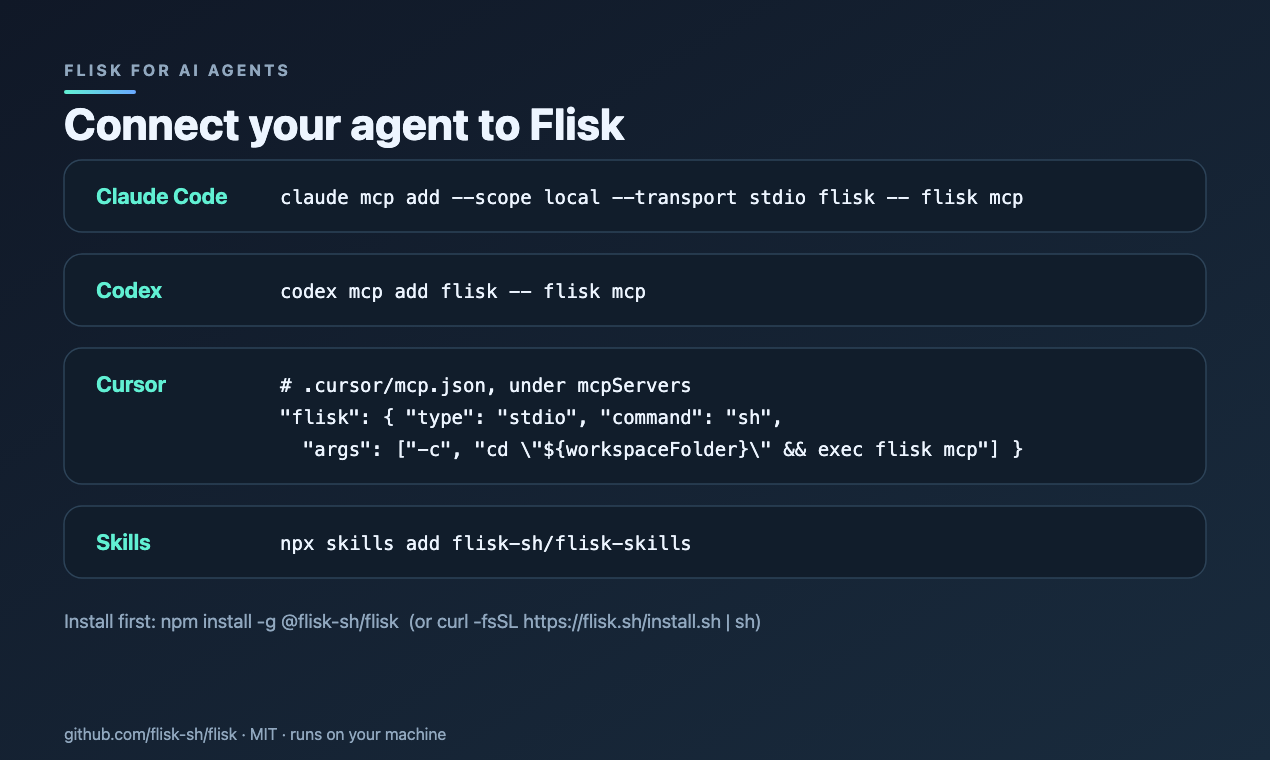
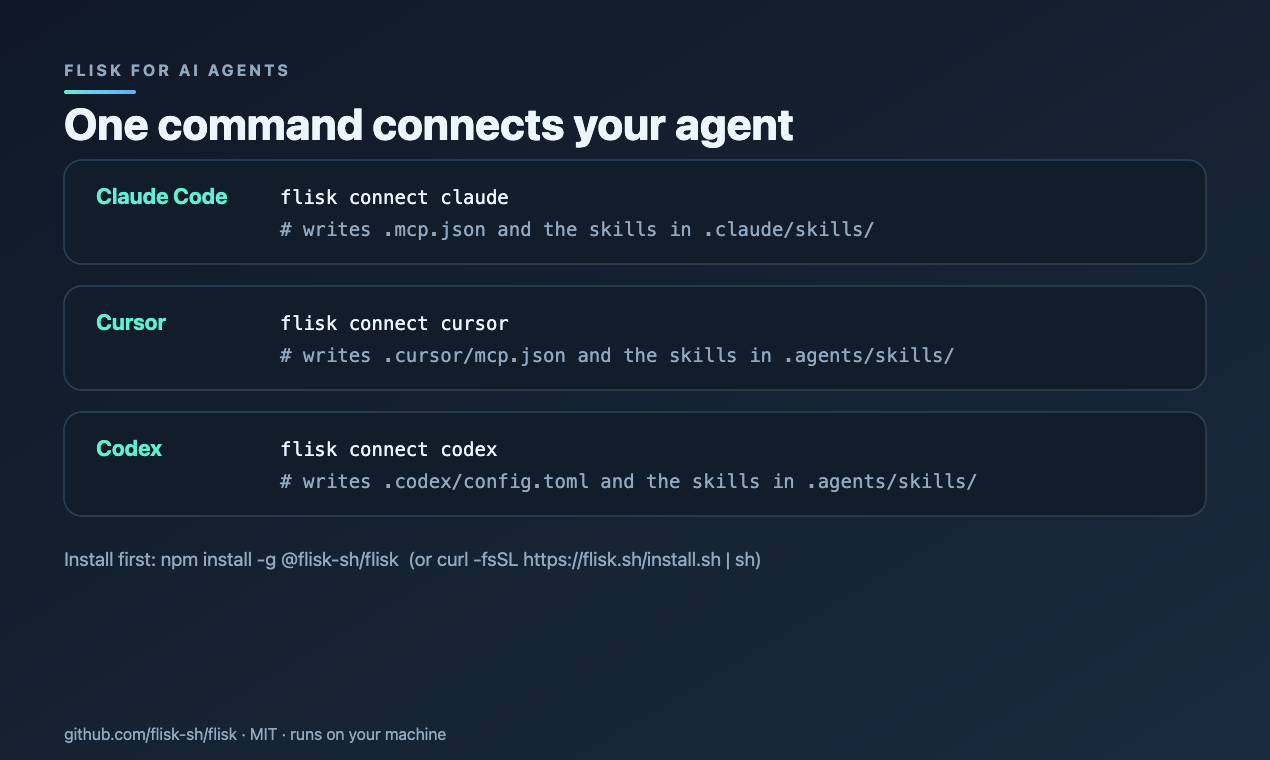
docs(launch): use flisk connect in the agents launch kit (#2634)
flisk connect <claude|cursor|codex> shipped in 1.4.9, so gallery card 2
now shows it with the files each host gets, in place of the per-host
commands and the skills install. The kit's two open items are marked
shipped (the connect command, flisk.sh/agents), the first comment gets
the one-command line, and the posts point at flisk.sh/agents.

The tool facts follow flisk 1.4.10: 21 tools (was 19) on cards 1 and 3
and in the copy, card 3 lists the current names (resource_restart,
agent_list, agent_sessions) and the missing project_import and
project_eject, and the video script uses resource_restart.

diff --git a/docs/launch/flisk-for-agents/README.md b/docs/launch/flisk-for-agents/README.md
@@ -6,22 +6,23 @@ Everything the maker needs to post "Flisk for AI agents" on Product Hunt and to 
 - [checklist.md](checklist.md): the next 24 hours, in Pacific time.
 - [gallery/](gallery/): the five gallery images (SVG source and PNG), and the script that writes them.
 
-Before anything goes out, check two open items:
+The two items that were open have shipped:
 
-1. **The connect command.** The one-command connect is being built on the `feat/flisk-for-agents` branch and is not on `main` yet. The working name is flisk connect followed by the host (claude, cursor or codex). This kit uses the commands that work today (the per-host setup in [Set up the Flisk MCP server](../../agent-tooling/flisk-mcp-setup.md)). When the connect command merges, put its real name and flags into the first comment, the posts below and gallery card 2 (`CONNECT` in [gallery/build.mjs](gallery/build.mjs)), and run it once on a clean machine first.
-2. **The landing page.** flisk.sh/agents is being built. Until it answers, use the repository link (https://github.com/flisk-sh/flisk) as the product link.
+1. **The connect command.** `flisk connect claude`, `flisk connect cursor` and `flisk connect codex` are in the published CLI since 1.4.9 ([Flisk for AI agents](../../agents/flisk-for-agents.md)). This kit, the first comment and gallery card 2 use them. Run one once on a clean machine before the launch.
+2. **The landing page.** https://flisk.sh/agents/ answers. Use it as the product link, with the repository as the second link.
 
 ## What the product is (one paragraph, for anyone writing about it)
 
-Flisk for AI agents gives a coding agent (Claude Code, Cursor or Codex) the Flisk runtime: the `flisk mcp` server, which ships inside the Flisk CLI and exposes 19 tools, plus the Flisk agent skills. With them the agent can create a project, add services, start the stack on Docker and Tilt, check readiness, read logs and restart what broke, instead of hand-writing Compose files and guessing. The core is MIT and needs no key or account. It runs on the user's machine; it is not a hosted service and not a deploy tool.
+Flisk for AI agents gives a coding agent (Claude Code, Cursor or Codex) the Flisk runtime: the `flisk mcp` server, which ships inside the Flisk CLI and exposes 21 tools, plus the Flisk agent skills. With them the agent can create a project, add services, start the stack on Docker and Tilt, check readiness, read logs and restart what broke, instead of hand-writing Compose files and guessing. The core is MIT and needs no key or account. It runs on the user's machine; it is not a hosted service and not a deploy tool.
 
 Facts this rests on (check before you repeat them):
 
 | Fact | Where it is checked |
 | --- | --- |
-| `flisk mcp` has 19 tools | `cli/src/mcp/tools.ts`; a `tools/list` call against the CLI built from `main` returned 19 names on 2026-10-27, and the published `@flisk-sh/flisk` 1.4.8 package contains `project_init` and `stack_assign` |
+| `flisk mcp` has 21 tools | `cli/src/mcp/tools.ts`; a `tools/list` call to `flisk mcp` from the published `@flisk-sh/flisk` 1.4.10 binary returned 21 names on 2026-10-27 |
+| `flisk connect` sets up Claude Code, Cursor and Codex | [Flisk for AI agents](../../agents/flisk-for-agents.md); `flisk connect claude\|cursor\|codex --dry-run` from the published 1.4.10 package lists the files it writes |
 | Claude Code, Cursor, Codex (and Claude Desktop) are supported clients | [Set up the Flisk MCP server](../../agent-tooling/flisk-mcp-setup.md) |
-| Skills | [flisk-skills](https://github.com/flisk-sh/flisk-skills), installed with `npx skills add flisk-sh/flisk-skills`; `flisk project` also adds `.claude/skills`, `.agents/skills` and `AGENTS.md` to a new project (seen in a real `project_init` call) |
+| Skills | [flisk-skills](https://github.com/flisk-sh/flisk-skills); `flisk connect` writes them for the host, and `flisk project` also adds `.claude/skills`, `.agents/skills` and `AGENTS.md` to a new project (seen in a real `project_init` call) |
 | MIT core, no key | [LICENSE](../../../LICENSE), and the license boundary in GOVERNANCE.md |
 | Needs Docker and Tilt to start a stack; native Windows needs WSL2 for `flisk up` | [docs/wsl2.md](../../wsl2.md) and the setup page |
 
@@ -37,17 +38,17 @@ No performance numbers appear in this kit. If someone asks for one, use only the
 | --- | --- | --- |
 | 1 | Let your coding agent build and run your local stack | 52 |
 | 2 | Claude Code, Cursor and Codex, now with a local runtime | 55 |
-| 3 | 19 MCP tools so your AI agent can run the whole stack | 53 |
+| 3 | 21 MCP tools so your AI agent can run the whole stack | 53 |
 
 **Chosen: 1, "Let your coding agent build and run your local stack".** It says who acts (your agent), what it does (build and run) and where (local), without a number to defend or a list of brand names that reads like a partnership. Option 2 names the hosts, which is good for search but says less about the outcome; option 3 leads with a count, which is accurate but not a reason to care.
 
 **Description** (259 characters; Product Hunt allows up to 500, the kit keeps it to 260 so it fits a card):
 
-> Connect Claude Code, Cursor or Codex to the Flisk runtime: the flisk mcp server with 19 tools, plus the Flisk skills. Your agent scaffolds services, starts the stack on Docker and Tilt, reads status and logs, and fixes what broke. Free MIT core, runs locally.
+> Connect Claude Code, Cursor or Codex to the Flisk runtime: the flisk mcp server with 21 tools, plus the Flisk skills. Your agent scaffolds services, starts the stack on Docker and Tilt, reads status and logs, and fixes what broke. Free MIT core, runs locally.
 
 **Launch tags** (Product Hunt allows three): Developer Tools, Artificial Intelligence, Open Source.
 
-**Links:** the repository (https://github.com/flisk-sh/flisk) as the main link until flisk.sh/agents answers; then the landing page, with the repository as the second link.
+**Links:** the landing page (https://flisk.sh/agents/) as the main link, with the repository (https://github.com/flisk-sh/flisk) as the second link.
 
 **Thumbnail:** the existing Flisk mark, 240x240, under 3 MB. Do not reuse the Oct 27 listing's gallery.
 
@@ -59,7 +60,9 @@ Post it right after the listing goes live (it can also be added when scheduling)
 
 > Hi, I'm one of the people who make Flisk. Yesterday we put the Flisk CLI itself on Product Hunt. Today is the part we use most ourselves: handing a local stack to a coding agent.
 >
-> What it is: the flisk mcp server that ships inside the Flisk CLI (19 tools such as doctor, project_init, resource_create, up, status, logs and restart_resource) plus the Flisk skills. Connect it to Claude Code, Cursor or Codex, and the agent can create the project, add services, start them on Docker and Tilt, check which ones are ready and read the logs of the one that failed, instead of writing Compose files by hand and guessing.
+> What it is: the flisk mcp server that ships inside the Flisk CLI (21 tools such as doctor, project_init, resource_create, up, status, logs and resource_restart) plus the Flisk skills. Connect it to Claude Code, Cursor or Codex, and the agent can create the project, add services, start them on Docker and Tilt, check which ones are ready and read the logs of the one that failed, instead of writing Compose files by hand and guessing.
+>
+> One command connects it: `flisk connect claude` (or `cursor`, `codex`), after `npm install -g @flisk-sh/flisk`.
 >
 > What it is not: it is not hosted and not a deploy tool. It runs on your machine and needs Docker and Tilt to start a stack. On Windows it needs WSL2. The core is MIT and needs no key or account.
 >
@@ -67,7 +70,7 @@ Post it right after the listing goes live (it can also be added when scheduling)
 >
 > What would you want your agent to be able to do with your local stack that it cannot do today?
 
-About 170 words. If the connect command has merged, add one line after the second paragraph with the exact command, for example "One command connects it: (the command)". Do not add it before it works on a clean machine.
+About 185 words. Run the connect command once on a clean machine before posting; if it fails there, drop that line.
 
 ## Gallery
 
@@ -85,8 +88,8 @@ done
 | # | File | What it shows | Alt text |
 | --- | --- | --- | --- |
 | 1 | `gallery/01-title.png` | The name, the chosen tagline, the three hosts and the five verbs (scaffold, start, check, read logs, fix) | Flisk for AI agents: let your coding agent build and run your local stack |
-| 2 | `gallery/02-connect.png` | The per-host commands that connect Claude Code, Codex and Cursor to `flisk mcp`, plus the skills install, and the CLI install line | The commands that connect Claude Code, Codex and Cursor to the Flisk MCP server |
-| 3 | `gallery/03-agent-tools.png` | The 19 tool names, grouped as Build, Run, Check, Observe and Agents | The 19 tools of the Flisk MCP server, grouped by what an agent does with them |
+| 2 | `gallery/02-connect.png` | `flisk connect claude`, `cursor` and `codex`, the files each one writes, and the CLI install line | One command connects Claude Code, Cursor or Codex to the Flisk MCP server and skills |
+| 3 | `gallery/03-agent-tools.png` | The 21 tool names, grouped as Build, Run, Check, Observe and Agents | The 21 tools of the Flisk MCP server, grouped by what an agent does with them |
 | 4 | `gallery/04-transcript.png` | An agent session: project_init, two resource_create calls, doctor, up and status, with output from a real run | An AI agent creates a two-service shop with the Flisk MCP tools and starts it |
 | 5 | `gallery/05-free-local-mit.png` | Free, local, MIT, and the install command | Flisk for AI agents is free, runs locally and is MIT licensed |
 
@@ -99,12 +102,12 @@ Record a real session; do not stage output. Screen at 1920x1080, terminal font a
 | # | Time | Screen | Voice-over |
 | --- | --- | --- | --- |
 | 1 | 0:00-0:06 | Gallery card 1 | "This is Flisk for AI agents. It lets your coding agent build and run your local stack." |
-| 2 | 0:06-0:18 | Terminal in an empty folder: the Claude Code connect command (card 2), then `/mcp` inside Claude Code showing flisk connected | "Connect it once. Here it is Claude Code; Cursor and Codex work the same way." |
+| 2 | 0:06-0:18 | Terminal in an empty folder: `flisk connect claude` (card 2), then `/mcp` inside Claude Code showing flisk connected | "Connect it once. Here it is Claude Code; Cursor and Codex work the same way." |
 | 3 | 0:18-0:28 | Type the prompt: "Build a small shop: a storefront and an orders API. Start it and check it." | "Then ask for what you want, in plain words." |
 | 4 | 0:28-0:45 | The agent calls `project_init` and `resource_create` twice; show the "Resource created successfully" lines | "The agent creates the project and the two services through Flisk's tools. Each service gets one service.json." |
 | 5 | 0:45-0:60 | The agent calls `doctor`, then `up`, then `status` until both services are ready (cut the wait, with an on-screen "build cut") | "It checks the machine, starts the stack on Docker and Tilt, and checks which services are ready." |
 | 6 | 0:60-0:72 | Open the storefront URL the agent printed in a browser | "Both parts are running on this laptop, at local URLs." |
-| 7 | 0:72-0:80 | Optional, if it happened naturally in the recording: a failing service, the agent calling `logs`, fixing the file and calling `restart_resource` | "When something fails, it reads the logs and restarts what it fixed." |
+| 7 | 0:72-0:80 | Optional, if it happened naturally in the recording: a failing service, the agent calling `logs`, fixing the file and calling `resource_restart` | "When something fails, it reads the logs and restarts what it fixed." |
 | 8 | 0:80-0:88 | Gallery card 5 | "Free, MIT, and it runs on your machine. Not a deploy tool." |
 
 Do not fake scene 7. If no failure happened, drop it and keep the video at about 75 seconds.
@@ -115,7 +118,7 @@ Post these only after the Product Hunt listing is live, from the maker's own acc
 
 ### X (one post, under 280 characters)
 
-> Flisk for AI agents: connect Claude Code, Cursor or Codex to the flisk mcp server (19 tools) and the Flisk skills, and your agent can scaffold, start, check and fix a local stack on Docker and Tilt. MIT, runs on your machine.
+> Flisk for AI agents: connect Claude Code, Cursor or Codex to the flisk mcp server (21 tools) and the Flisk skills, and your agent can scaffold, start, check and fix a local stack on Docker and Tilt. MIT, runs on your machine.
 >
 > (Product Hunt link)
 
@@ -127,7 +130,7 @@ Follow-up reply in the same thread, with gallery card 4 attached:
 
 > Yesterday we put the Flisk CLI on Product Hunt. Today it is the part we use most ourselves: Flisk for AI agents.
 >
-> It connects a coding agent (Claude Code, Cursor or Codex) to the flisk mcp server that ships inside the Flisk CLI, plus the Flisk skills. With its 19 tools the agent can create a project, add services, start them on Docker and Tilt, check readiness, and read the logs of whatever failed.
+> It connects a coding agent (Claude Code, Cursor or Codex) to the flisk mcp server that ships inside the Flisk CLI, plus the Flisk skills. With its 21 tools the agent can create a project, add services, start them on Docker and Tilt, check readiness, and read the logs of whatever failed.
 >
 > What it is not: it is not hosted and not a deploy tool. Production stays on whatever you use today. The core is MIT and needs no key.
 >
@@ -137,7 +140,7 @@ Follow-up reply in the same thread, with gallery card 4 attached:
 
 ### Discord (Flisk server, announcements)
 
-> Flisk for AI agents is on Product Hunt today. It is the flisk mcp server and the Flisk skills, packaged so Claude Code, Cursor or Codex can scaffold, start, check and fix a local stack. Setup per host: https://github.com/flisk-sh/flisk/blob/main/docs/agent-tooling/flisk-mcp-setup.md
+> Flisk for AI agents is on Product Hunt today. It is the flisk mcp server and the Flisk skills, packaged so Claude Code, Cursor or Codex can scaffold, start, check and fix a local stack. Setup is one command, `flisk connect claude` (or `cursor`, `codex`): https://flisk.sh/agents/
 >
 > If you have tried Flisk with an agent, the most useful thing you can do is say what broke, here or on the listing. (Product Hunt link)
 
@@ -145,7 +148,7 @@ Follow-up reply in the same thread, with gallery card 4 attached:
 
 Do not post a second Show HN on launch day. The Show HN for the Flisk CLI is planned in [docs/marketing/launch-plan.md](../../marketing/launch-plan.md), and Hacker News flags a resubmission of the same repository URL. If the maker wants an HN post about the agent side, use this as a comment in the existing Show HN thread when someone asks about agents, not as a new submission:
 
-> The agent side is the flisk mcp server that ships in the CLI: 19 tools (doctor, up, status, logs, resource_create, config_verify and so on) over stdio. Each tool runs the same CLI command and returns its JSON envelope or text output, so what the agent sees is what you would see. Setup for Codex, Claude Code and Cursor: docs/agent-tooling/flisk-mcp-setup.md.
+> The agent side is the flisk mcp server that ships in the CLI: 21 tools (doctor, up, status, logs, resource_create, config_verify and so on) over stdio. Each tool runs the same CLI command and returns its JSON envelope or text output, so what the agent sees is what you would see. Setup for Claude Code, Cursor and Codex is `flisk connect <host>`: docs/agents/flisk-for-agents.md.
 
 ## Note to the four adopter teams
 
@@ -155,7 +158,7 @@ Send one personal message to each team (Lekast, MakeOffer, mfin.services, Red Mo
 >
 > Thanks again for running Flisk on your own code and for letting us list you as an adopter.
 >
-> Tomorrow we put a second thing on Product Hunt: Flisk for AI agents, which connects Claude Code, Cursor or Codex to the Flisk MCP server and skills so the agent can start and check your stack itself. Setup is here: https://github.com/flisk-sh/flisk/blob/main/docs/agent-tooling/flisk-mcp-setup.md
+> Tomorrow we put a second thing on Product Hunt: Flisk for AI agents, which connects Claude Code, Cursor or Codex to the Flisk MCP server and skills so the agent can start and check your stack itself. Setup is one command, `flisk connect claude` (or `cursor`, `codex`): https://flisk.sh/agents/
 >
 > I am not asking for an upvote. What would help is honest feedback: if someone on your team tries it with your real project, what did the agent get wrong, and what did it get right? A short reply, a GitHub issue, or a comment on the listing if you want it public, all work. If you have no time this week, that is completely fine.
 >

diff --git a/docs/launch/flisk-for-agents/checklist.md b/docs/launch/flisk-for-agents/checklist.md
@@ -10,9 +10,9 @@ The copy for every step is in [README.md](README.md). Why each step is here is i
 
 | By (PT) | Who | Step | Done |
 | --- | --- | --- | --- |
-| 14:00 | Maker | Decide go or no-go on the connect command: if it is merged and works on a clean machine, add it to the first comment and card 2 (`CONNECT` in [gallery/build.mjs](gallery/build.mjs)), re-render, re-check. If not, launch with the per-host commands that work today. | [ ] |
+| 14:00 | Maker | Check the connect command on a clean machine: `npm install -g @flisk-sh/flisk`, then `flisk connect claude --dry-run` and `flisk connect claude`. The first comment and card 2 already use it (shipped in 1.4.9); if it fails there, drop that line from the first comment and tell the maintainers. | [ ] |
 | 14:00 | Maker | Ask Product Hunt support (help.producthunt.com, or the support chat on the site) two questions: does a separate "Flisk for AI agents" listing, one day after the Flisk listing, meet their guidelines for a new product, and is there anything that would keep it from being featured? Record the answer and its time in the launch log. | [ ] |
-| 15:00 | Maker | Run the whole flow once on a clean folder: install, connect Claude Code (or the connect command), ask the agent to build and start the two-service shop, check `status`. If it fails, fix or cut the claim before it goes on the listing. | [ ] |
+| 15:00 | Maker | Run the whole flow once on a clean folder: install, run `flisk connect claude`, ask the agent to build and start the two-service shop, check `status`. If it fails, fix or cut the claim before it goes on the listing. | [ ] |
 | 16:00 | Maker | Record the video (README, "Video"). Upload it to YouTube as unlisted (Product Hunt takes a YouTube link). | [ ] |
 | 17:00 | Maker | Fill in the listing in Product Hunt's launch flow: name, tagline 1, description, three launch tags, links, thumbnail, the five gallery PNG files in order with their alt text, the video, makers. Paste the first comment. | [ ] |
 | 17:30 | Maker | **Schedule** the listing for Wed Oct 28, 00:01 PT (Product Hunt lets you schedule up to a month ahead). Open the scheduled listing's preview once and check every image, link and line. Do not use "Launch now". | [ ] |

diff --git a/docs/launch/flisk-for-agents/lessons-learned.md b/docs/launch/flisk-for-agents/lessons-learned.md
@@ -48,4 +48,4 @@ Where an item says "observed", it was seen on the day. Where it says "not verifi
 ## What does not change
 
 - No vote requests, no vote swaps, no new accounts, no company account. These break Product Hunt's rules (see [checklist.md](checklist.md), "What not to do") and they would not have fixed any of the problems above.
-- No numbers in posts other than the 19 tools, which is a count of the code, and the wording in [docs/claims.md](../../claims.md).
+- No numbers in posts other than the 21 tools, which is a count of the code, and the wording in [docs/claims.md](../../claims.md).
